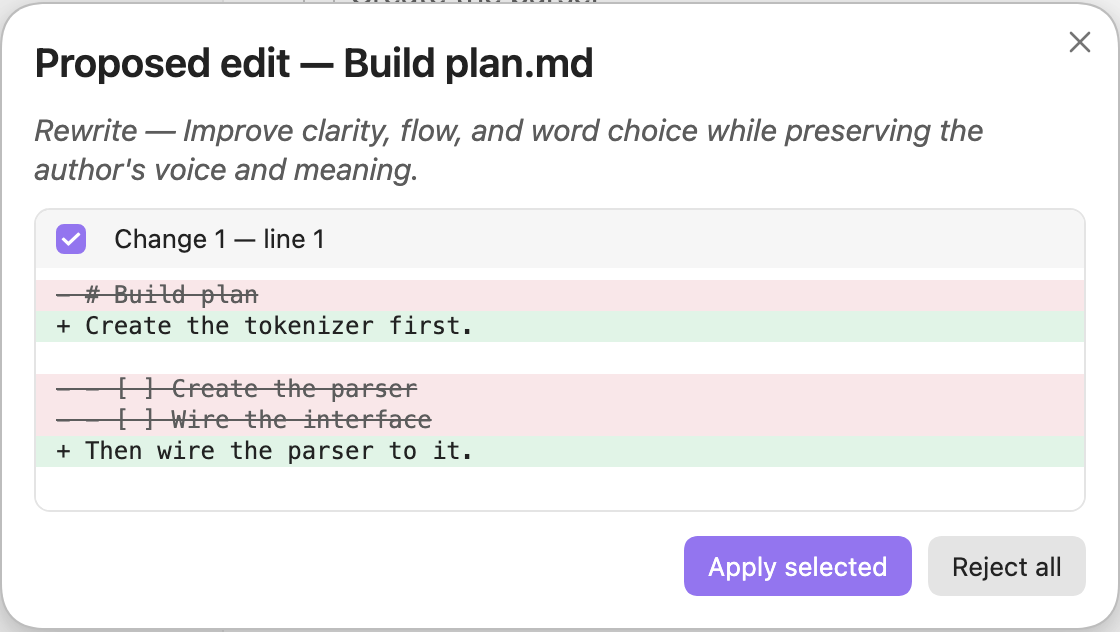
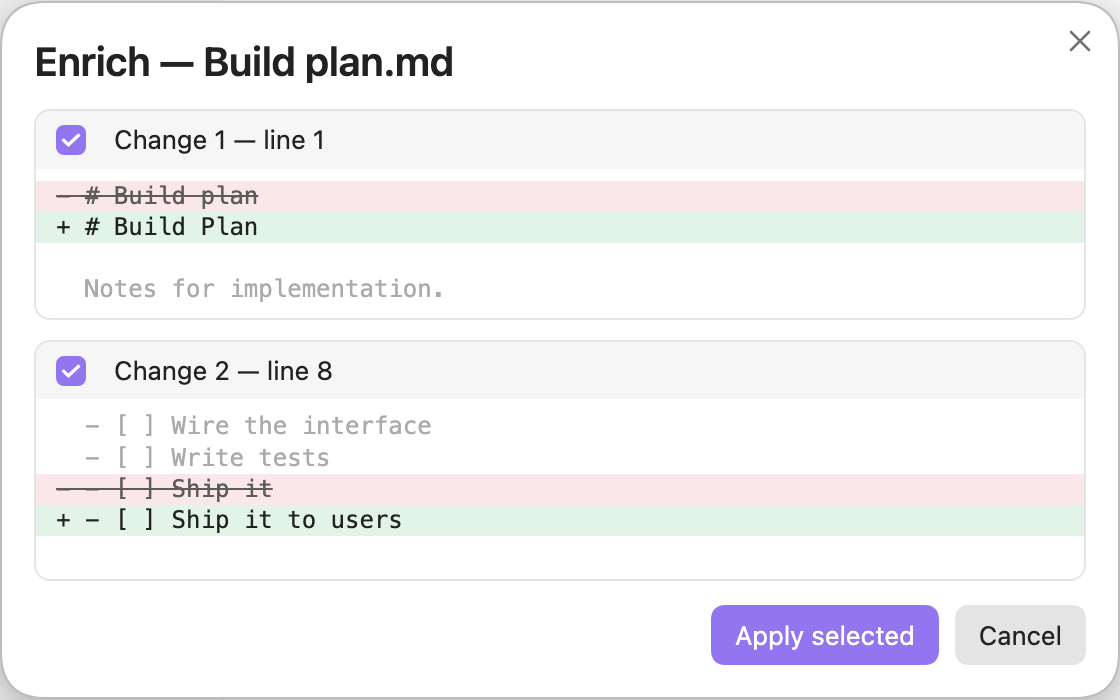
docs: README screenshots — fallback, tool chips, per-hunk diff

diff --git a/obsidian-plugin/e2e/readme-captures.spec.ts b/obsidian-plugin/e2e/readme-captures.spec.ts
@@ -13,7 +13,14 @@ async function shoot(target: Locator | Page, name: string): Promise<void> {
   // A startup Notice (e.g. the secrets migration banner) can still be showing
   // when a shot is fast; strip any on-screen notices so they never land in frame.
   const targetPage = "page" in target && typeof (target as Locator).page === "function" ? (target as Locator).page() : (target as Page);
-  await targetPage.evaluate(() => document.querySelectorAll(".notice").forEach((n) => n.remove()));
+  await targetPage.evaluate(() => {
+    document.querySelectorAll(".notice").forEach((n) => n.remove());
+    // A wide row (e.g. the usage bar) can leave an ancestor mid-horizontal-scroll;
+    // pin every scrollable element back to its left edge before cropping.
+    document.querySelectorAll<HTMLElement>("*").forEach((el) => {
+      if (el.scrollWidth > el.clientWidth) el.scrollLeft = 0;
+    });
+  });
   await target.screenshot({ path, scale: "device", animations: "disabled" });
   const buf = await readFile(path);
   const width = buf.readUInt32BE(16);
@@ -39,30 +46,34 @@ test.describe("README captures", () => {
   test.skip(!ENABLED, "set CC_E2E_CAPTURE=1");
 
   test("diff-review.png", async () => {
+    // "Enrich with Claude…" (not the single-edit rewrite path): its lint step
+    // sends the whole note to the utility (here: chat-role/Anthropic-stub)
+    // model and diffToEdits() turns the returned full copy into edits, one per
+    // LCS-changed region merged only when within MERGE_GAP (3) lines of each
+    // other — a changed heading and a changed last task, six unchanged lines
+    // apart, stay two separate edits and so two separate .cc-diff-hunk boxes.
+    const originalPlan = "# Build plan\n\nNotes for implementation.\n\n- [ ] Create the parser\n- [ ] Wire the interface\n- [ ] Write tests\n- [ ] Ship it\n";
+    const enrichedPlan = "# Build Plan\n\nNotes for implementation.\n\n- [ ] Create the parser\n- [ ] Wire the interface\n- [ ] Write tests\n- [ ] Ship it to users\n";
     const harness = await launchObsidianHarness({
-      providerReply: (body) => (/rewrite/i.test(body) ? "Create the tokenizer first.\n\nThen wire the parser to it." : null),
-      settingsOverride: { inlineDiffEnabled: false },
+      providerReply: (body) => (/copyeditor/i.test(body) ? enrichedPlan : null),
+      extraFiles: { "Build plan.md": originalPlan },
     });
     try {
       const { page } = harness;
       await page.evaluate(async () => {
-        const w = window as unknown as { app: { workspace: { openLinkText(l: string, s: string): Promise<void>; activeEditor?: { editor?: { setSelection(a: { line: number; ch: number }, b: { line: number; ch: number }): void; lastLine(): number } } } } };
-        await w.app.workspace.openLinkText("Build plan", "", false);
+        const w = window as unknown as {
+          app: {
+            vault: { getAbstractFileByPath(path: string): unknown };
+            plugins: { plugins: Record<string, { enrichNoteFlow(file: unknown, options: { rename: boolean; frontmatter: boolean; links: boolean; lint: boolean }): Promise<void> }> };
+          };
+        };
+        const file = w.app.vault.getAbstractFileByPath("Build plan.md");
+        // Fire and forget: enrichNoteFlow() only resolves once the review
+        // modal it opens is closed, which this test never does.
+        void w.app.plugins.plugins["claude-companion"]!.enrichNoteFlow(file, { rename: false, frontmatter: false, links: false, lint: true });
       });
-      await page.evaluate(() => {
-        const w = window as unknown as { app: { workspace: { activeEditor?: { editor?: { setSelection(a: { line: number; ch: number }, b: { line: number; ch: number }): void; lastLine(): number } } } } };
-        const ed = w.app.workspace.activeEditor?.editor;
-        if (ed) ed.setSelection({ line: 0, ch: 0 }, { line: ed.lastLine(), ch: 0 });
-      });
-      await run(page, "claude-companion:rewrite-selection");
-      const preset = page.locator(".modal .cc-rewrite-preset").first();
-      await preset.click();
-      await page.locator(".modal").getByRole("button", { name: "Rewrite", exact: true }).click();
-      // A single-selection rewrite is always exactly one ProposedEdit -> one
-      // planEdits() span -> one hunk; propose_note_edit (agent tool_use, not
-      // fakeable through the plain provider stub) is the only path to >=2.
       const modal = page.locator(".modal", { has: page.locator(".cc-diff-hunk") });
-      await expect(modal.locator(".cc-diff-hunk")).toHaveCount(1, { timeout: 15_000 });
+      await expect(modal.locator(".cc-diff-hunk")).toHaveCount(2, { timeout: 15_000 });
       await shoot(modal, "diff-review.png");
     } finally {
       await harness.close();
@@ -112,6 +123,10 @@ test.describe("README captures", () => {
       await input.fill("Summarize my vault in one line.");
       await input.press("Enter");
       await expect(root.locator(".cc-fallback-note")).toBeVisible({ timeout: 30_000 });
+      // The endpoint stub now actually answers /chat/completions, so the local
+      // retry succeeds — no error card, just the fallback note and its reply.
+      await expect(root.locator(".cc-msg.cc-assistant").last()).toContainText("Answered locally by the endpoint stub.", { timeout: 15_000 });
+      await expect(root.locator(".cc-error")).toHaveCount(0);
       await shoot(root, "local-fallback-indicator.png");
     } finally {
       await harness.close();
@@ -128,8 +143,9 @@ test.describe("README captures", () => {
       const chips = root.locator(".cc-tool-chip");
       await expect(chips).toHaveCount(2, { timeout: 30_000 });
       await chips.first().locator("summary").click();
-      const bubble = root.locator(".cc-msg.cc-assistant").last();
-      await shoot(bubble, "agent-tool-chips.png");
+      // Crop to the whole panel (not just the bubble) so the header/composer
+      // chrome is in frame too.
+      await shoot(root, "agent-tool-chips.png");
     } finally {
       await harness.close();
     }

diff --git a/obsidian-plugin/e2e/obsidianHarness.ts b/obsidian-plugin/e2e/obsidianHarness.ts
@@ -220,18 +220,48 @@ export async function launchObsidianHarness(options: ObsidianHarnessOptions = {}
   const provider = createServer((request, response) => { requests += 1; let body = ""; request.on("data", (chunk: Buffer) => { body += chunk.toString("utf8"); }); request.on("end", () => { const status = options.providerFail?.(body) ?? null; if (status !== null) { response.writeHead(status, { "content-type": "application/json" }); response.end(JSON.stringify({ type: "error", error: { type: "api_error", message: `stubbed ${status}` } })); return; } const text = options.providerReply?.(body) ?? defaultReply; const respond = () => { response.writeHead(200, { "content-type": "application/json" }); response.end(JSON.stringify({ content: [{ type: "text", text }] })); }; if (options.providerDelayMs) setTimeout(respond, options.providerDelayMs); else respond(); }); });
   await new Promise<void>((resolve, reject) => { provider.once("error", reject); provider.listen(0, "127.0.0.1", () => resolve()); });
   const address = provider.address(); if (!address || typeof address === "string") throw new Error("Provider stub did not bind");
-  // OpenAI-compatible endpoint stub: only /v1/models matters for the pickers.
+  // OpenAI-compatible endpoint stub: /v1/models for the pickers, /v1/chat/completions
+  // (stream + non-stream) so a real chat turn against it can actually answer.
   let endpoint: Server | null = null;
   let endpointPort: number | null = null;
   if (options.endpointModels) {
     const ids = options.endpointModels;
+    const endpointReply = "Answered locally by the endpoint stub.";
     endpoint = createServer((request, response) => {
-      request.resume();
+      // stream() (unlike listModels()/complete(), which go through Obsidian's
+      // requestUrl) calls the real browser fetch(), so a JSON POST triggers a
+      // CORS preflight — answer it, and mark every response CORS-open.
+      response.setHeader("Access-Control-Allow-Origin", "*");
+      if (request.method === "OPTIONS") {
+        request.resume();
+        response.writeHead(204, { "Access-Control-Allow-Methods": "GET, POST, OPTIONS", "Access-Control-Allow-Headers": "content-type, authorization" });
+        response.end();
+        return;
+      }
       if (request.url?.endsWith("/models")) {
+        request.resume();
         response.writeHead(200, { "content-type": "application/json" });
         response.end(JSON.stringify({ object: "list", data: ids.map((id) => ({ id, object: "model" })) }));
         return;
       }
+      if (request.method === "POST" && request.url?.endsWith("/chat/completions")) {
+        let body = "";
+        request.on("data", (chunk: Buffer) => { body += chunk.toString("utf8"); });
+        request.on("end", () => {
+          const streaming = /"stream"\s*:\s*true/.test(body);
+          if (streaming) {
+            response.writeHead(200, { "content-type": "text/event-stream" });
+            response.write(`data: ${JSON.stringify({ choices: [{ delta: { content: endpointReply } }] })}\n\n`);
+            response.write("data: [DONE]\n\n");
+            response.end();
+          } else {
+            response.writeHead(200, { "content-type": "application/json" });
+            response.end(JSON.stringify({ choices: [{ message: { content: endpointReply } }] }));
+          }
+        });
+        return;
+      }
+      request.resume();
       response.writeHead(404, { "content-type": "application/json" });
       response.end("{}");
     });
